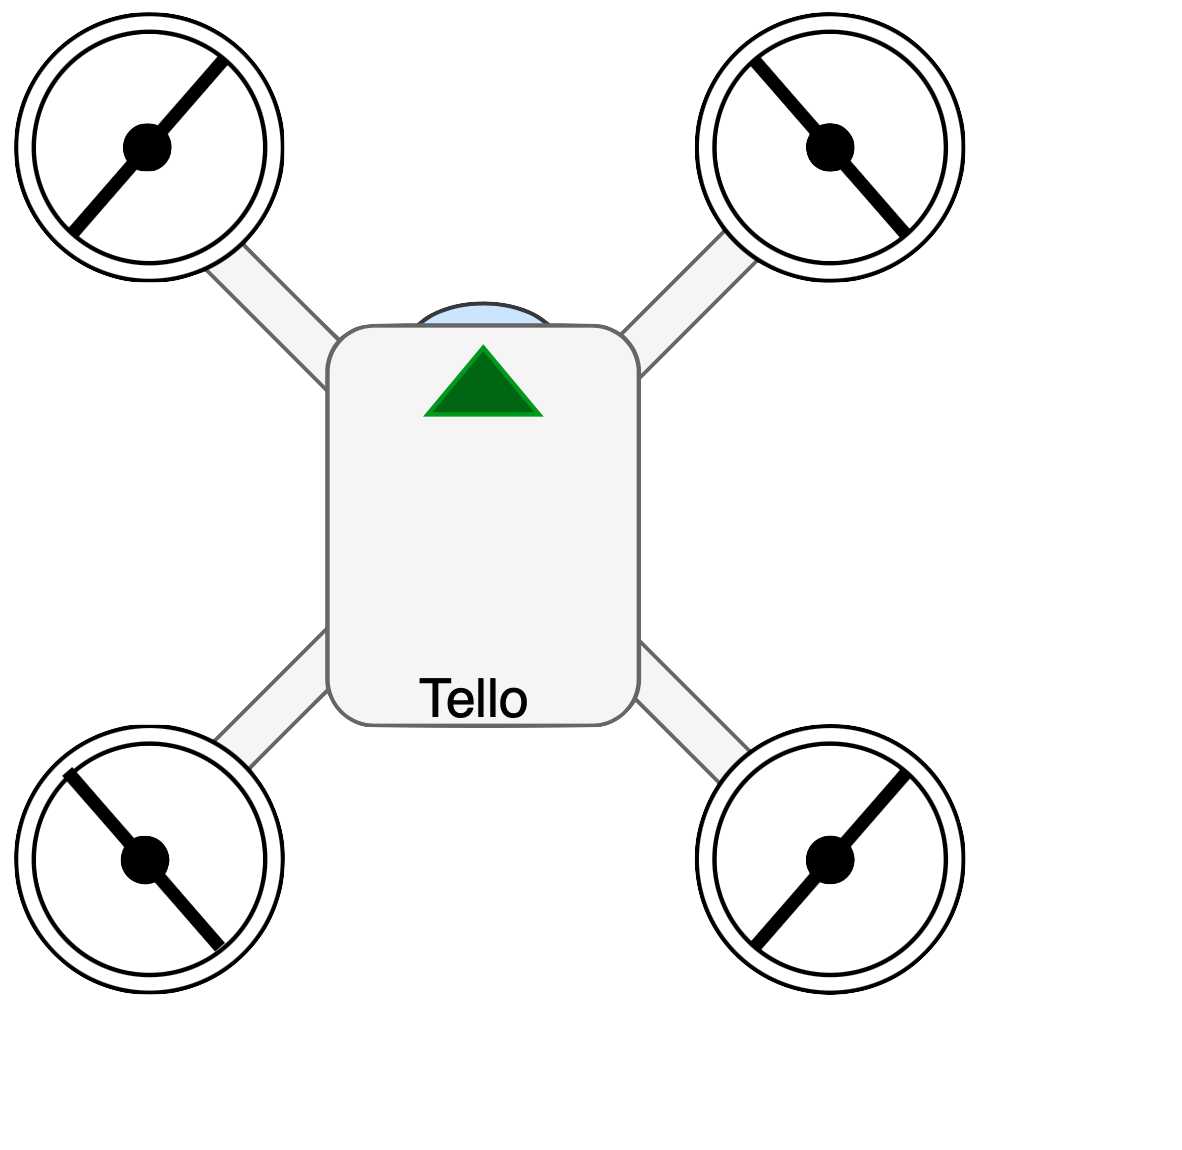
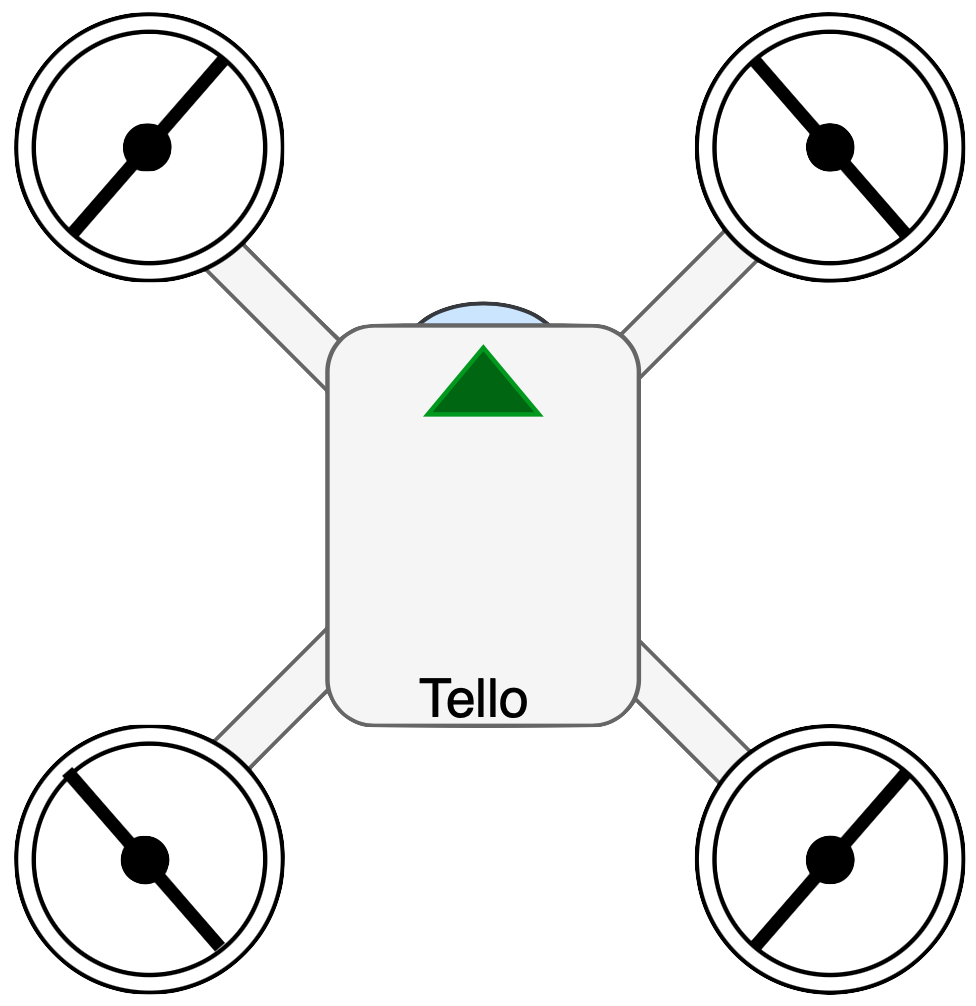
UPDATED ImageTest
Ho completato lo sviluppo di ImageTest, aggiornando anche l'immagine superiore, che era tagliata male, e ho implementato un meccanismo per far l'immagine del drone in una posizione neutra, proprio come accade in un drone reale

diff --git a/src/ImageTest/src/Altitudine.java b/src/ImageTest/src/Altitudine.java
@@ -1,3 +1,7 @@
+
+import java.awt.event.KeyEvent;
+import java.awt.event.KeyListener;
+
 /*
  * To change this license header, choose License Headers in Project Properties.
  * To change this template file, choose Tools | Templates
@@ -8,46 +12,24 @@
  *
  * @author micheacolautti
  */
-public class Altitudine extends javax.swing.JPanel {
+public class Altitudine extends ImageModel implements KeyListener {
 
-    /**
-     * Creates new form Empty
-     */
-    public Altitudine() {
-        initComponents();
+    
+    private int altitudine;
+    
+    public void Altitudine(){
+        
+    
+    }
+    
+    
+    public void keyTyped(KeyEvent e) {
     }
 
-    /**
-     * This method is called from within the constructor to initialize the form.
-     * WARNING: Do NOT modify this code. The content of this method is always
-     * regenerated by the Form Editor.
-     */
-    @SuppressWarnings("unchecked")
-    // <editor-fold defaultstate="collapsed" desc="Generated Code">//GEN-BEGIN:initComponents
-    private void initComponents() {
+    public void keyPressed(KeyEvent e) {
+    }
 
-        jLabel1 = new javax.swing.JLabel();
-
-        jLabel1.setText("Altitudine:");
-
-        javax.swing.GroupLayout layout = new javax.swing.GroupLayout(this);
-        this.setLayout(layout);
-        layout.setHorizontalGroup(
-            layout.createParallelGroup(javax.swing.GroupLayout.Alignment.LEADING)
-            .addGroup(javax.swing.GroupLayout.Alignment.TRAILING, layout.createSequentialGroup()
-                .addComponent(jLabel1, javax.swing.GroupLayout.DEFAULT_SIZE, 394, Short.MAX_VALUE)
-                .addContainerGap())
-        );
-        layout.setVerticalGroup(
-            layout.createParallelGroup(javax.swing.GroupLayout.Alignment.LEADING)
-            .addGroup(javax.swing.GroupLayout.Alignment.TRAILING, layout.createSequentialGroup()
-                .addContainerGap()
-                .addComponent(jLabel1, javax.swing.GroupLayout.DEFAULT_SIZE, 294, Short.MAX_VALUE))
-        );
-    }// </editor-fold>//GEN-END:initComponents
-
-
-    // Variables declaration - do not modify//GEN-BEGIN:variables
-    private javax.swing.JLabel jLabel1;
-    // End of variables declaration//GEN-END:variables
+    public void keyReleased(KeyEvent e) {
+    }
+    
 }

diff --git a/src/ImageTest/src/ImageFrame.java b/src/ImageTest/src/ImageFrame.java
@@ -15,6 +15,7 @@ public class ImageFrame extends JFrame implements KeyListener{
     private ImagePanelFront imagePanelFront;
     private ImagePanelLat imagePanelLat;
     private ImagePanelUp imagePanelUp;
+    private Altitudine altitudine;
 
     public ImageFrame() {
        addKeyListener((KeyListener) this);
@@ -42,10 +43,11 @@ public class ImageFrame extends JFrame implements KeyListener{
         imagePanelFront = new ImagePanelFront();
         imagePanelLat = new ImagePanelLat();
         imagePanelUp = new ImagePanelUp();
-        add(imagePanelLat);
+        altitudine = new Altitudine();
         add(imagePanelLat);
         add(imagePanelUp);
         add(imagePanelFront);
+        add(altitudine);
         pack();
     }
 
@@ -82,5 +84,4 @@ public class ImageFrame extends JFrame implements KeyListener{
     public boolean isFocusTraversable() {
         return true;
     }
-
 }

diff --git a/src/ImageTest/src/ImagePanelFront.java b/src/ImageTest/src/ImagePanelFront.java
@@ -1,13 +1,8 @@
 
 import java.awt.event.KeyEvent;
 import java.awt.event.KeyListener;
-import java.awt.image.BufferedImage;
 import java.io.File;
 import java.io.IOException;
-import static java.lang.Thread.sleep;
-import java.util.concurrent.TimeUnit;
-import java.util.logging.Level;
-import java.util.logging.Logger;
 import javax.imageio.ImageIO;
 
 public class ImagePanelFront extends ImageModel implements KeyListener {

diff --git a/src/ImageTest/src/ImagePanelUp.java b/src/ImageTest/src/ImagePanelUp.java
@@ -22,7 +22,7 @@ public class ImagePanelUp extends ImageModel implements KeyListener {
     public void paintComponent(Graphics g) {
 
         g.setColor(Color.white);
-        g.fillRect(0, 0, width, height);
+        g.fillRect(0, 0, getWidth(), getHeight());
         panelH = getHeight();
         panelW = getWidth();
         if (panelW < panelH) {

diff --git a/src/ImageTest/src/ImageModel.java b/src/ImageTest/src/ImageModel.java
@@ -2,8 +2,6 @@
 import java.awt.Graphics;
 import java.awt.Graphics2D;
 import java.awt.RenderingHints;
-import java.awt.event.KeyEvent;
-import java.awt.event.KeyListener;
 import java.awt.geom.AffineTransform;
 import java.awt.image.BufferedImage;
 import javax.swing.JPanel;
